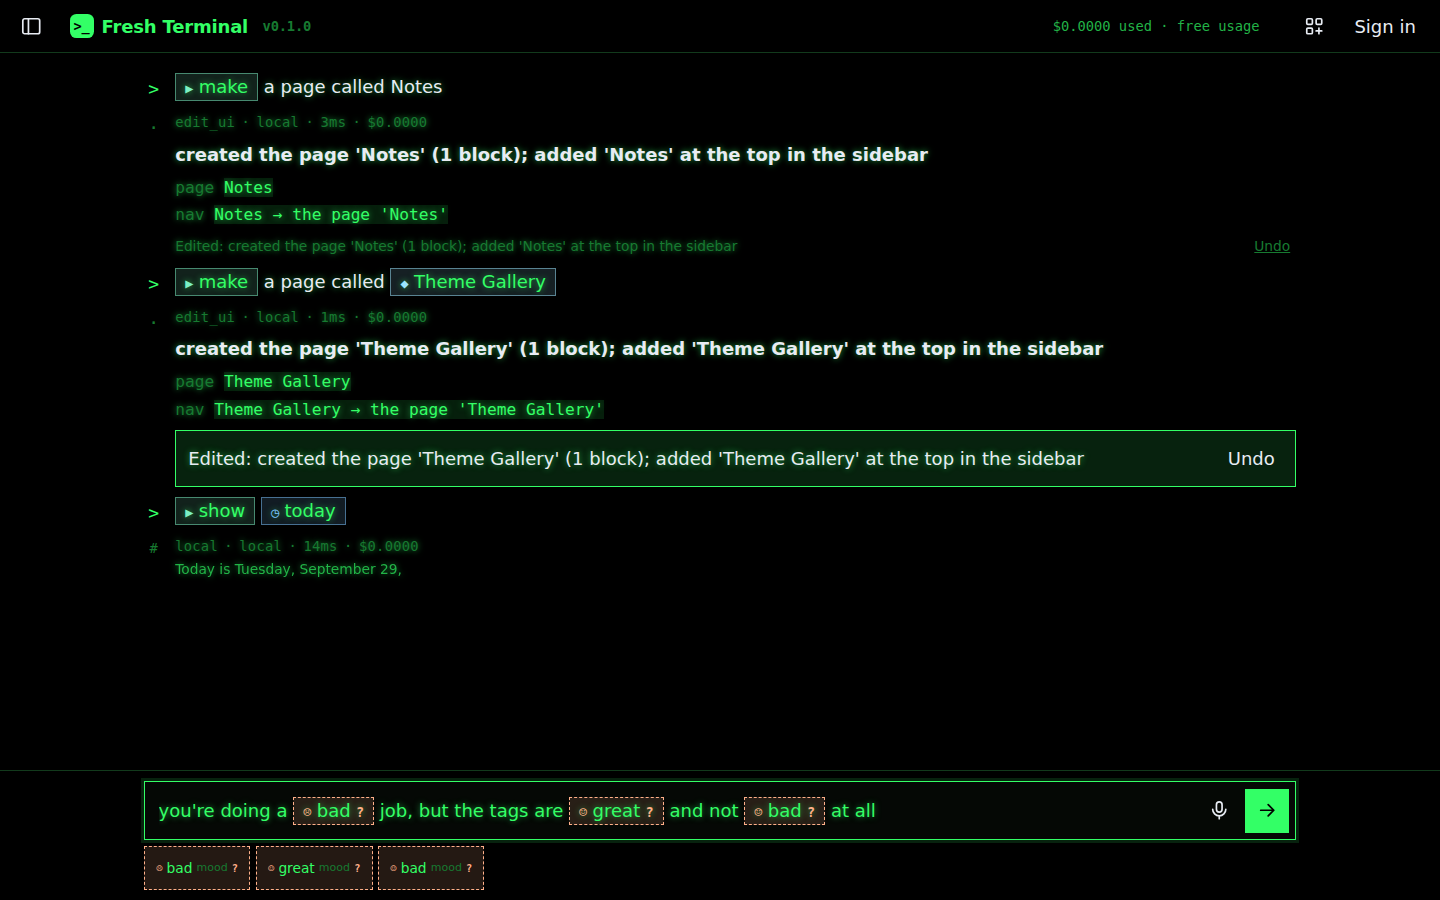
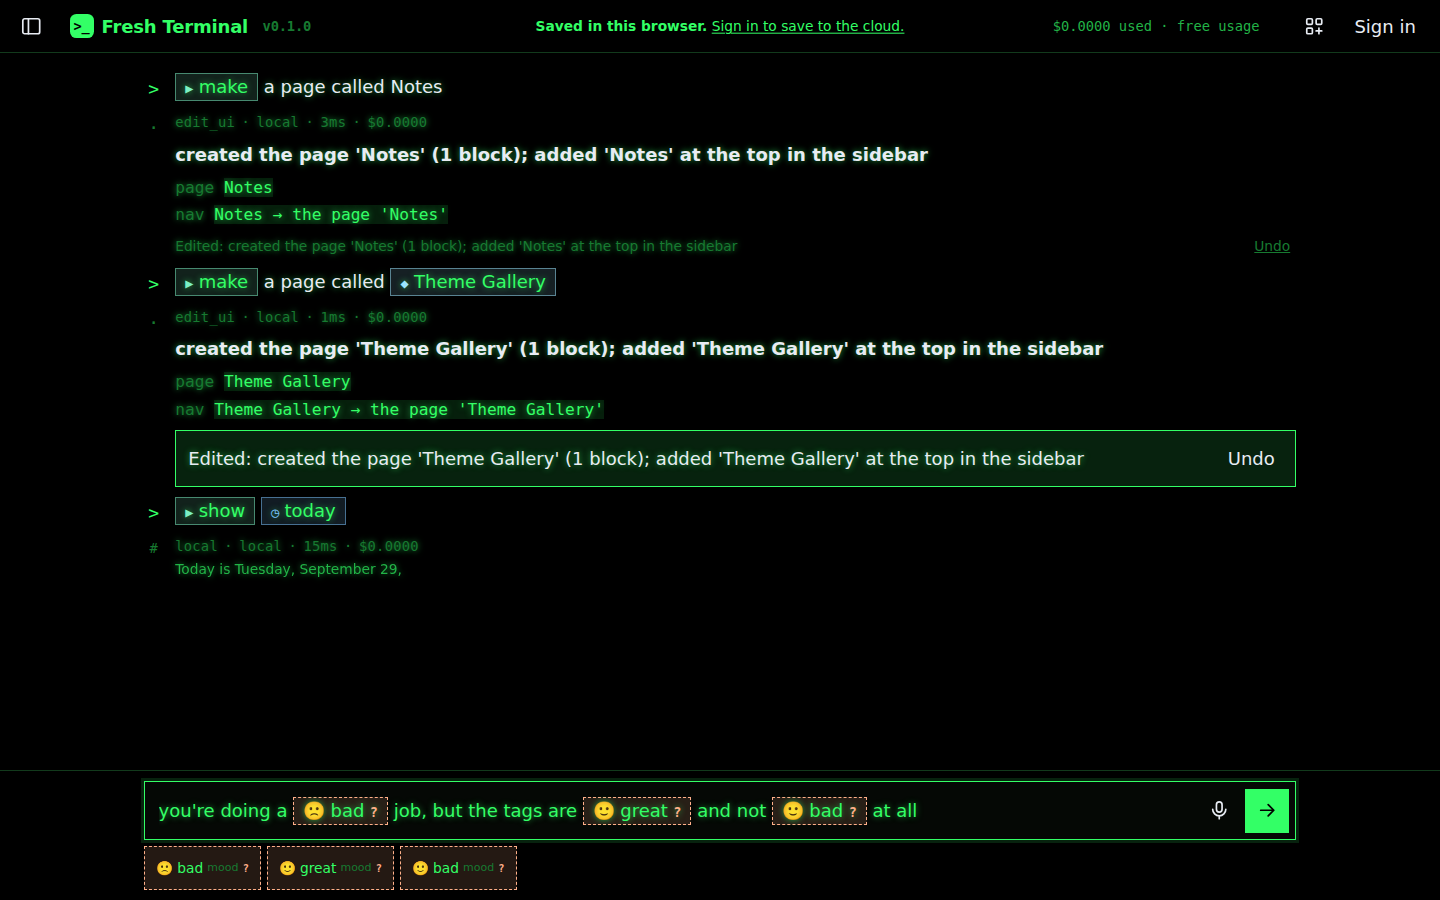
One line in the top bar, voice key in the placeholder, emoji mood faces (C-085)
The first-run banner is gone. The top bar carries one centered line:
"Saved in this browser. Sign in to save to the cloud." (the second
sentence signs in), or "Saved to your account." when signed in. Export
lives only in the tray. The prompt placeholder fills Justin's blank with
the real key: "Type here. Alt+V turns voice on and off." (Option+V on a
Mac). Mood tags show emoji faces people can read. The default stage
name is "Untitled stage".

Canon: C-085, prompts 78-79, changelog 0006, state, README/llms.

Claude-Session: https://claude.ai/code/session_01Sz7Wfkt3GHA3y6CcvStF4S

Changed region(s): [[0.0938, 0.8711, 0.625, 0.9956], [0.5, 0.0, 0.625, 0.0622], [0.375, 0.0, 0.5, 0.0311]]

diff --git a/terminal/app/src/shell/TopBar.tsx b/terminal/app/src/shell/TopBar.tsx
@@ -8,6 +8,7 @@ import { Button } from '../ui/Button';
 import { Tooltip } from '../ui/Tooltip';
 import { IconBox, IconDev, IconDownload, IconHint, IconKey, IconLang, IconLibrary, IconPlus, IconReplay, IconSidebar, IconSpark, IconTheme, IconTopBar, IconUpload } from '../ui/icons';
 import { AccountButton } from './AccountButton';
+import { useAccount } from '../auth/Account';
 import { Tray, type Tool } from './Tray';
 
 interface Props {
@@ -54,6 +55,7 @@ function key(id: string): string {
  */
 export function TopBar(props: Props) {
   const { t, lang } = useI18n();
+  const account = useAccount();
   const tools: Tool[] = [
     { id: 'box.new', group: 'go', label: t('topbar.newBox'), short: t('tool.newBox'), icon: <IconPlus />, onClick: props.onNewBox, shortcut: key('box.new'), testId: 'new-box' },
     { id: 'canvas.open', group: 'go', label: t('topbar.canvas'), short: t('tool.canvas'), icon: <IconBox />, onClick: props.onCanvas, shortcut: key('canvas.open'), pressed: props.canvasActive, testId: 'canvas-link' },
@@ -95,6 +97,19 @@ export function TopBar(props: Props) {
       </Tooltip>
       {props.boxName ? <span className="tagline">/ {props.boxName}</span> : null}
       <span className="topbar-spacer" />
+      {/* Where your work lives, one line, top center (C-085). */}
+      <span className="topbar-note" data-testid="topbar-note">
+        {account.signedIn ? (
+          t('topbar.savedCloud')
+        ) : (
+          <>
+            <b>{t('topbar.saved')}</b>{' '}
+            <button type="button" className="topbar-note-link" onClick={account.signIn} disabled={!account.loaded}>
+              {t('topbar.signInToSave')}
+            </button>
+          </>
+        )}
+      </span>
       <span className="balance" data-live={props.usedMicro > 0} data-testid="balance" aria-label={`${formatMicro(props.usedMicro)} ${t('topbar.used')}`}>
         {formatMicro(props.usedMicro)} {t('topbar.used')} · {t(props.payMode === 'own' ? 'pay.mode.own' : 'pay.mode.ours')}
       </span>

diff --git a/terminal/app/src/i18n/strings.ts b/terminal/app/src/i18n/strings.ts
@@ -115,7 +115,10 @@ export const strings = {
     'box.remove': 'Remove stage {name}',
     'box.removeConfirm': 'Remove "{name}" and everything in it? The ledger keeps its entries.',
     'box.removed': 'Removed {name}.',
-    'composer.placeholder': 'Type here. Enter sends, Shift+Enter for a new line.',
+    'composer.placeholder': 'Type here. {key} turns voice on and off.',
+    'topbar.saved': 'Saved in this browser.',
+    'topbar.signInToSave': 'Sign in to save to the cloud.',
+    'topbar.savedCloud': 'Saved to your account.',
     'composer.send': 'Send',
     'composer.mic': 'Speak',
     'composer.micStop': 'Stop listening',
@@ -416,7 +419,10 @@ export const strings = {
     'box.remove': 'Quitar el escenario {name}',
     'box.removeConfirm': '¿Quitar "{name}" y todo lo que contiene? El libro mayor conserva sus entradas.',
     'box.removed': 'Se quitó {name}.',
-    'composer.placeholder': 'Escribe aquí. Enter envía, Shift+Enter nueva línea.',
+    'composer.placeholder': 'Escribe aquí. {key} enciende y apaga la voz.',
+    'topbar.saved': 'Guardado en este navegador.',
+    'topbar.signInToSave': 'Inicia sesión para guardarlo en la nube.',
+    'topbar.savedCloud': 'Guardado en tu cuenta.',
     'composer.send': 'Enviar',
     'composer.mic': 'Hablar',
     'composer.micStop': 'Dejar de escuchar',

diff --git a/terminal/app/src/styles/app.css b/terminal/app/src/styles/app.css
@@ -3308,3 +3308,53 @@ textarea.field-input {
   color: var(--fg-faint);
   text-decoration: underline;
 }
+
+/* ---------- C-085: where your work lives, one line in the top bar; voice key in the placeholder ---------- */
+.region-top {
+  position: relative;
+}
+.topbar-note {
+  position: absolute;
+  left: 50%;
+  top: 50%;
+  transform: translate(-50%, -50%);
+  white-space: nowrap;
+  font-size: var(--type-whisper);
+  color: var(--fg-muted);
+  pointer-events: none;
+}
+.topbar-note b {
+  font-weight: 600;
+  color: var(--fg);
+}
+.topbar-note-link {
+  pointer-events: auto;
+  display: inline-flex;
+  align-items: center;
+  min-height: var(--target);
+  border: 0;
+  background: none;
+  padding: 0 0.2rem;
+  font: inherit;
+  color: var(--accent);
+  cursor: pointer;
+  text-decoration: underline;
+  text-underline-offset: 0.15em;
+}
+.topbar-note-link:disabled {
+  color: var(--fg-faint);
+  cursor: default;
+  text-decoration: none;
+}
+@media (max-width: 60rem) {
+  .topbar-note {
+    display: none;
+  }
+}
+
+/* mood faces are emoji: full size, not the mono glyph treatment */
+.chip[data-kind='mood'] .chip-icon {
+  font-size: 1em;
+  font-family: inherit;
+  color: inherit;
+}

diff --git a/terminal/app/src/terminal/Composer.tsx b/terminal/app/src/terminal/Composer.tsx
@@ -207,6 +207,9 @@ export function Composer({
   };
 
   const showSuggestions = showStarters && focused && text.trim().length === 0;
+  // The blank in "____ turns voice on and off" is the real key on this machine (C-085).
+  const voiceKey = `${/Mac|iPhone|iPad/.test(typeof navigator === 'undefined' ? '' : navigator.platform) ? 'Option' : 'Alt'}+V`;
+  const placeholder = t('composer.placeholder', { key: voiceKey });
 
   return (
     <div className="composer" data-testid="composer">
@@ -253,8 +256,8 @@ export function Composer({
             data-cursor-shape={cursor.shape}
             rows={1}
             value={text}
-            placeholder={t('composer.placeholder')}
-            aria-label={t('composer.placeholder')}
+            placeholder={placeholder}
+            aria-label={placeholder}
             style={{ caretColor: caretAtEnd ? 'transparent' : 'var(--fg)' }}
             spellCheck
             onChange={(event) => {

diff --git a/terminal/app/src/terminal/BoxView.tsx b/terminal/app/src/terminal/BoxView.tsx
@@ -23,8 +23,6 @@ import { startSkinRun } from '../skins/runner';
 import { Doodles } from './Doodles';
 import { Transcript } from './Transcript';
 import { PageView } from '../pages/PageView';
-import { downloadSession } from '../lib/exportSession';
-import { FirstRun } from './FirstRun';
 import { creditsSnapshot, reportCreditsError } from '../credits';
 
 export interface AppCommands {
@@ -472,7 +470,6 @@ export function BoxView({ box, theme, landing, showNewBoxDoodle, onOpenBox, comm
 
   return (
     <>
-      <FirstRun onExport={() => downloadSession(box.id)} />
       {pageId ? (
         <PageView pageId={pageId} />
       ) : isEmpty ? (

diff --git a/terminal/app/src/terminal/ChipText.tsx b/terminal/app/src/terminal/ChipText.tsx
@@ -16,13 +16,13 @@ export const CHIP_ICONS: Record<ChipKind, string> = {
   page: '▭',
   nav: '☰',
   theme: '◐',
-  mood: '☹',
+  mood: '🙁',
   entity: '◆',
 };
 
-/** Mood shows its face: ☹ negative, ☺ positive. */
+/** Mood shows its face as an emoji people can read: 🙁 negative, 🙂 positive (Justin, ts 1790656150). */
 export function chipIcon(chip: Pick<Chip, 'kind' | 'value'>): string {
-  if (chip.kind === 'mood') return chip.value === 'positive' ? '☺' : '☹';
+  if (chip.kind === 'mood') return chip.value === 'positive' ? '🙂' : '🙁';
   return CHIP_ICONS[chip.kind];
 }
 

diff --git a/terminal/app/src/store/local.ts b/terminal/app/src/store/local.ts
@@ -164,7 +164,7 @@ export class LocalStore implements Store {
     const box: Box = {
       id: newId('box'),
       owner_identity: this.identity,
-      name: name.trim() || 'Untitled box',
+      name: name.trim() || 'Untitled stage',
       created_at: now,
       updated_at: now,
     };

diff --git a/terminal/docs/canon/decisions.md b/terminal/docs/canon/decisions.md
@@ -560,3 +560,9 @@ These are plans Claude answered with. Justin has not decided them, and none is b
 - Justin: "The canvas you made is awful" ([message](https://aluzinaworkspace.slack.com/archives/C0C2YAS5TL5/p1790649916347129?thread_ts=1790634517.611669&cid=C0C2YAS5TL5)). Relayed during the work: square corners to start, less redundant text.
 - Decided: `/canvas` shows every page as a square paper sheet with a real screenshot and its title, grouped into Terminal, Worlds, Docs and Archive frames drawn by hand with handwritten labels, on a dot-grid desk; minimap, fit, 100%, pinch/trackpad/mouse/keyboard pan-zoom, a live preview of the selected page, titles that stay legible zoomed out and at 3840. Chosen by best-of-3 over plain paper and a drafting table. Cards gain optional `section`, `thumb`, `archived`; `pnpm canvas:thumbs` makes the screenshots. v1 stays at `/canvas?v=1`, labelled archived.
 - Status: current. Decision 0022, changelog 0012, page doc `pages/canvas.md`.
+
+**C-085 · 2026-09-29 04:35 · Where your work lives is one line in the top bar; the placeholder names the voice key**
+- Justin: "put savide in theis browser. Sign in to save to the coloud centered top center. Export goes in the top right dropdown menu. . in the prompt box. ____ turns voice on and off." ([message](https://aluzinaworkspace.slack.com/archives/C0C2YAS5TL5/p1790656021722259?thread_ts=1790634517.611669&cid=C0C2YAS5TL5)), with a marked-up screenshot: the banner's first sentence boxed with an arrow to the top bar's center, the rest of the sentence and the banner's own Sign in and × struck out, Export arrowed to the tray icon.
+- Decided: the first-run banner is gone. The top bar carries one centered line: "Saved in this browser. Sign in to save to the cloud." (the second sentence is the sign-in link), or "Saved to your account." when signed in; hidden under 60 rem. Export lives only in the tray. The prompt's placeholder fills his blank with the real key on this machine: "Type here. Alt+V turns voice on and off." (Option+V on a Mac). The credits line the banner carried is not shown; the counter in the bar is the number.
+- Amended 04:29: "those faces arent readable, you can use emojis when appropriate. soon we'll make our own icons and stuff." ([message](https://aluzinaworkspace.slack.com/archives/C0C2YAS5TL5/p1790656150155999?thread_ts=1790634517.611669&cid=C0C2YAS5TL5)). Mood tags use 🙁 and 🙂 until our own icon set exists; emoji are allowed in the interface where they read better than a glyph.
+- Status: current (this commit).

diff --git a/terminal/docs/canon/prompts.md b/terminal/docs/canon/prompts.md
@@ -669,3 +669,19 @@ Other session (Opus 5.5): researched Product Hunt's current rules (help center, 
 
 **What happened:** The mobile start landed in C-080 (prompt at the bottom, counter in the tray). The review became C-081: no-op edits refused, names not ids, one Undo bar, created pages open, the screen goes with the turn, mood tags. The other session took the sign-in appearance.
 [Message link](https://aluzinaworkspace.slack.com/archives/C0C2YAS5TL5/p1790655000670529?thread_ts=1790634517.611669&cid=C0C2YAS5TL5) · ts 1790655000.670529
+
+## 78. Mon Sep 28, 11:27 PM CDT · 2026-09-29 04:27:01 UTC
+
+> put savide in theis browser. Sign in to save to the coloud centered top center.  Export goes in the top right dropdown menu. . in the prompt box. ____ turns voice on and off.
+
+(With a marked-up screenshot of the start screen.)
+
+**What happened:** C-085: the banner is gone; one centered line in the top bar; Export only in the tray; the placeholder names the voice key.
+[Message link](https://aluzinaworkspace.slack.com/archives/C0C2YAS5TL5/p1790656021722259?thread_ts=1790634517.611669&cid=C0C2YAS5TL5) · ts 1790656021.722259
+
+## 79. Mon Sep 28, 11:29 PM CDT · 2026-09-29 04:29:10 UTC
+
+> those faces arent readable, you can use emojis when appropriate. soon we'll make our own icons and stuff.
+
+**What happened:** Folded into C-085: mood tags show 🙁 / 🙂 emoji; emoji are fine in the interface where they read better than a glyph, until our own icons exist.
+[Message link](https://aluzinaworkspace.slack.com/archives/C0C2YAS5TL5/p1790656150155999?thread_ts=1790634517.611669&cid=C0C2YAS5TL5) · ts 1790656150.155999

diff --git a/terminal/docs/canon/state.md b/terminal/docs/canon/state.md
@@ -101,6 +101,7 @@ As of 2026-09-29:
 | **Logos and icons skill** | Added 2026-09-29 02:25 UTC at `terminal/skills/logos-and-icons/SKILL.md`: source order (official → official repo → Simple Icons → text mark), licence check, sizes, registry at `docs/brand/registry.md`, generate only for our own marks. First use: marks on the FreshStack cards and brand chips. Assets not gathered yet. |
 | **Replay** (C-058) | Shipped 2026-09-29 02:45 UTC: `shared/src/timeline` (steps with parent ids, derived from the store; state rebuilt at any step; `timeline.v0` export), `app/src/playback` (scrubber, `/box/<id>/play?step=N`, key `P`). 157 tests, 28/28 responsive. Next: branches and merges once SpacetimeDB holds two heads (C-052); media steps after R2 (C-053). |
 | **Tagline** (C-059) | "Evolve as we grow." set 2026-09-29 02:45 UTC in `landing.tagline` (en and es). |
+| **One line in the top bar** (C-085) | Shipped 2026-09-29 04:40 UTC: banner gone, saved/sign-in line centered in the bar, voice key in the placeholder. |
 | **Review pass** (C-081) | Shipped 2026-09-29 04:45 UTC: no-op edits refused, names not ids, one Undo bar, created pages open, screen context, mood tags. |
 | **No silent turns, smarter tagger, tiles, stage** (C-080) | Shipped 2026-09-29 04:20 UTC. |
 | **Tighter start** (C-078) | Shipped 2026-09-29 04:00 UTC: square corners, one bottom row, centered prompt on an empty box, tags. |

diff --git a/terminal/docs/README.md b/terminal/docs/README.md
@@ -16,8 +16,8 @@ Read this first.
 | --- | --- | --- |
 | [canon/README.md](canon/README.md) | The Canon's own index, the vision in one paragraph, and the rules for keeping it true | 2026-09-29 |
 | [canon/vision.md](canon/vision.md) | What we're building and why, in Justin's words | 2026-09-29 |
-| [canon/decisions.md](canon/decisions.md) | Every decision (C-001 to C-083) with date, reason and status, reversals marked, proposals labelled | 2026-09-29 |
-| [canon/prompts.md](canon/prompts.md) | All 77 of Justin's messages, word for word, with what happened after each | 2026-09-29 |
+| [canon/decisions.md](canon/decisions.md) | Every decision (C-001 to C-085) with date, reason and status, reversals marked, proposals labelled | 2026-09-29 |
+| [canon/prompts.md](canon/prompts.md) | All 79 of Justin's messages, word for word, with what happened after each | 2026-09-29 |
 | [canon/state.md](canon/state.md) | What is live, what is not wired yet, what is in progress | 2026-09-29 |
 | [canon/open-questions.md](canon/open-questions.md) | What is still undecided or waiting on Justin | 2026-09-29 |
 | [canon/glossary.md](canon/glossary.md) | The house words: box, canvas, chip, dialect, Jev, recipe, replay, step, wiki and more | 2026-09-29 |

diff --git a/terminal/docs/canon/README.md b/terminal/docs/canon/README.md
@@ -14,7 +14,7 @@ Justin wants a plain screen with a blinking cursor that anyone can walk up to an
 | --- | --- |
 | [vision.md](vision.md) | What we're building and why: the product, the platform, the principles, in Justin's words |
 | [decisions.md](decisions.md) | Every decision with id, date, reason and status, including the ones that were reversed, and the proposals still waiting on Justin |
-| [prompts.md](prompts.md) | All 77 of Justin's messages, word for word, in order, with what happened after each |
+| [prompts.md](prompts.md) | All 79 of Justin's messages, word for word, in order, with what happened after each |
 | [glossary.md](glossary.md) | The house words: box, canvas, card, chip, dialect, Jev, ledger, refine loop and more |
 | [state.md](state.md) | What's live (with links and commits), what isn't wired yet, what's in progress |
 | [open-questions.md](open-questions.md) | What's still undecided: name, imports, Company OS, Stripe, voice keys, when Fresh Terminal replaces Slack |
